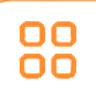
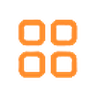
Use the exact designed cards for the Rings presets
- Ring Light, Thin Ring and Soft Ring show the supplied card artwork as designed
- Category pill icons re-cut from the same reference

Changed region(s): [[0.1875, 0.5312, 0.8125, 0.8438], [0.1875, 0.1875, 0.8125, 0.5], [0.0, 0.0, 1.0, 0.0312]]

diff --git a/lightstudio/src/components/Appearance/PresetLibrary.tsx b/lightstudio/src/components/Appearance/PresetLibrary.tsx
@@ -37,6 +37,9 @@ const DESIGNED_THUMBS: Record<string, string> = {
   'Golden Hour': '/presetthumbs/golden_hour.png',
   'Overcast': '/presetthumbs/overcast.png',
   'High Noon': '/presetthumbs/high_noon.png',
+  'Ring Light': '/presetthumbs/ring_light.png',
+  'Thin Ring': '/presetthumbs/thin_ring.png',
+  'Soft Ring': '/presetthumbs/soft_ring.png',
 };
 
 /** Icon shown inside each category pill (white when idle, orange when active). */
